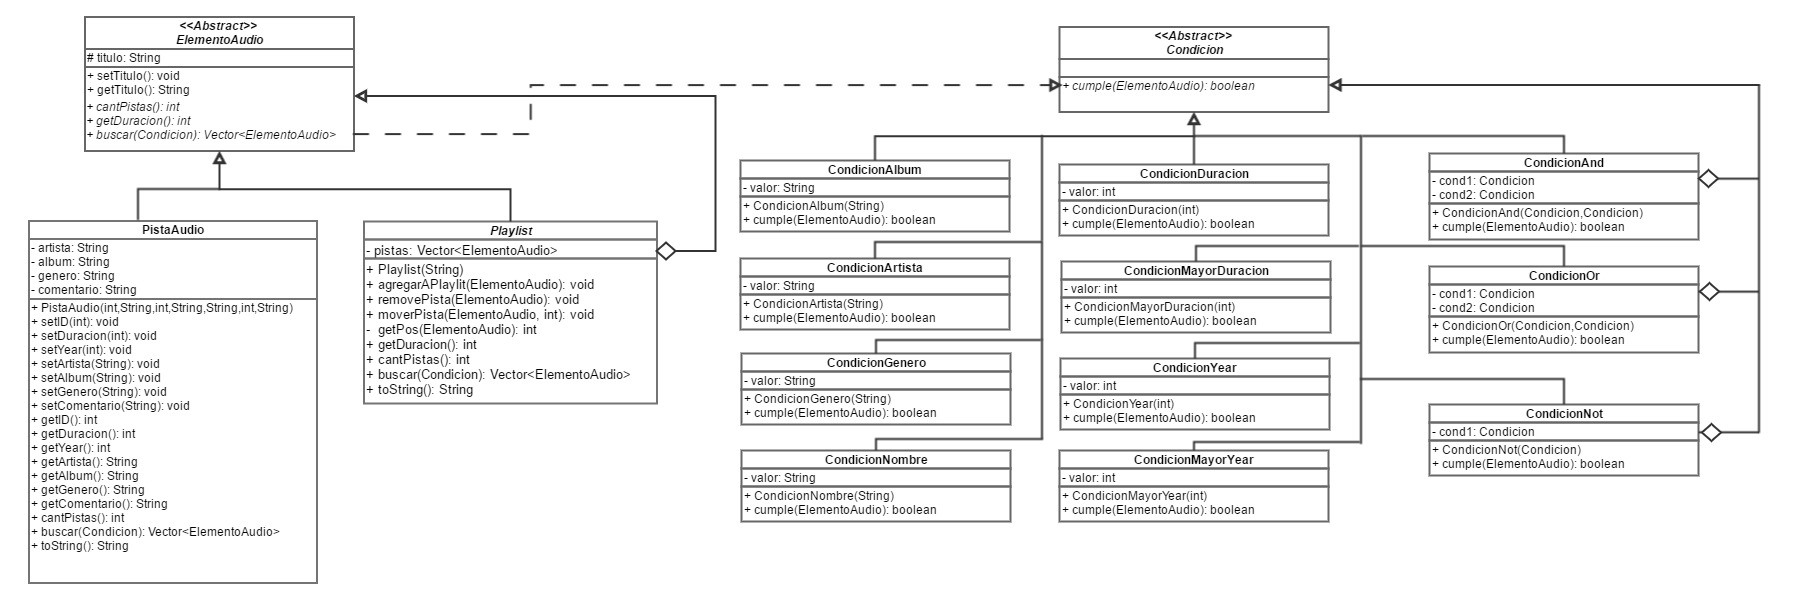
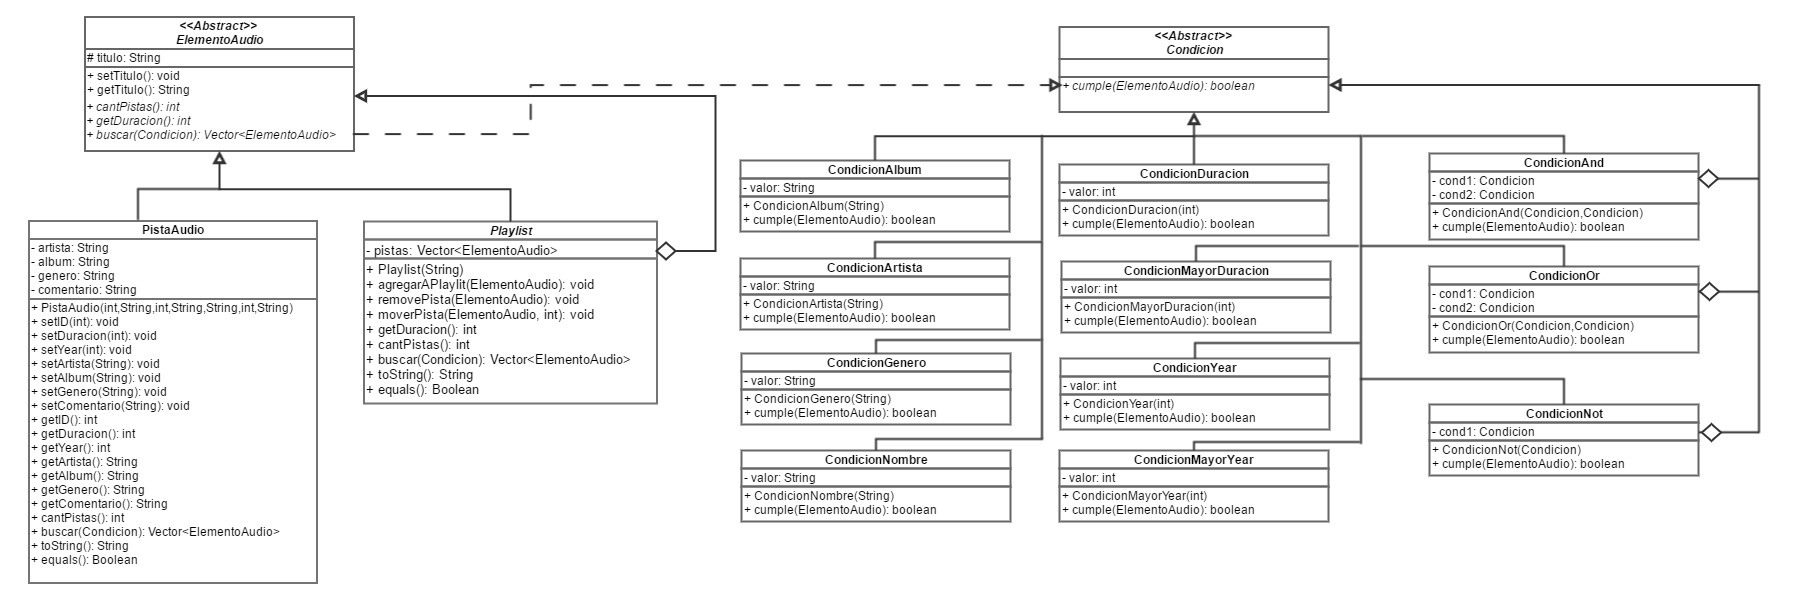
Configuracion equals en mover, metodo de Playlist

diff --git a/src/Playlist.java b/src/Playlist.java
@@ -18,20 +18,15 @@ public class Playlist extends ElementoAudio {
 	}
 
 	public void moverPista (ElementoAudio p1, int pos) {
-		int posp1 = getPos(p1);
+		int posp1 = pistas.indexOf(p1);
+		
+		if (posp1!= -1) {
 		pistas.remove(posp1);
 		pistas.add(pos, p1);
+		}
 	}
 
-	private int getPos (ElementoAudio p1) {
-		for (int i = 0; i<pistas.size(); i++) {
-			if (pistas.elementAt(i).equals(p1))
-				return i;
-		}
-	
-		return -1;
-	}
-	
+		
 	@Override
 	public int getDuracion() {
 		int segundos=0;
@@ -70,5 +65,13 @@ public class Playlist extends ElementoAudio {
 		}
 		return info;
 	}
-
+	
+	@Override
+	public boolean equals(Object p1) {
+		if (p1 instanceof Playlist) {
+			Playlist p = (Playlist)p1;
+			return titulo.equals(p.getTitulo());
+		}
+		return false;
+	}
 }

diff --git a/src/ElementoAudio.java b/src/ElementoAudio.java
@@ -14,6 +14,4 @@ public abstract class ElementoAudio {
 	public abstract int cantPistas ();
 	public abstract int getDuracion();
 	public abstract Vector<ElementoAudio> buscar (Condicion cond);
-
-
 }

diff --git a/src/Simulador.java b/src/Simulador.java
@@ -107,6 +107,5 @@ public class Simulador {
 		for (int i = 0; i < v1.size(); i++) {
 			System.out.print(v1.elementAt(i).toString());
 		}
-		
-	}
+	}	
 }
